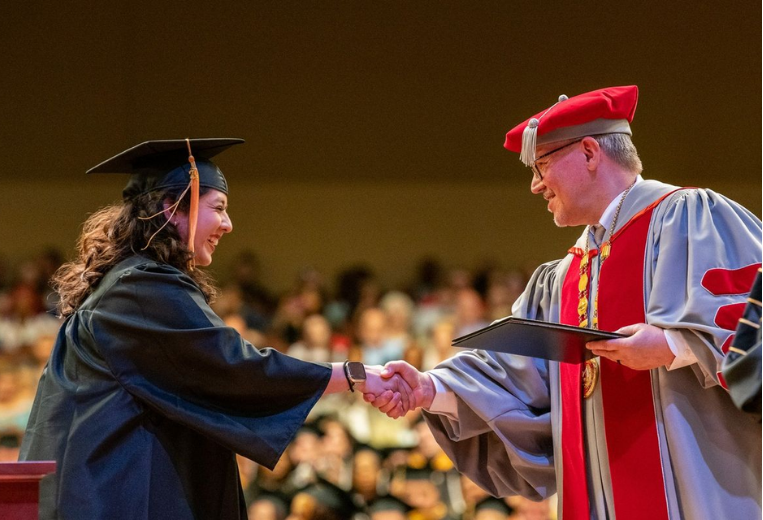
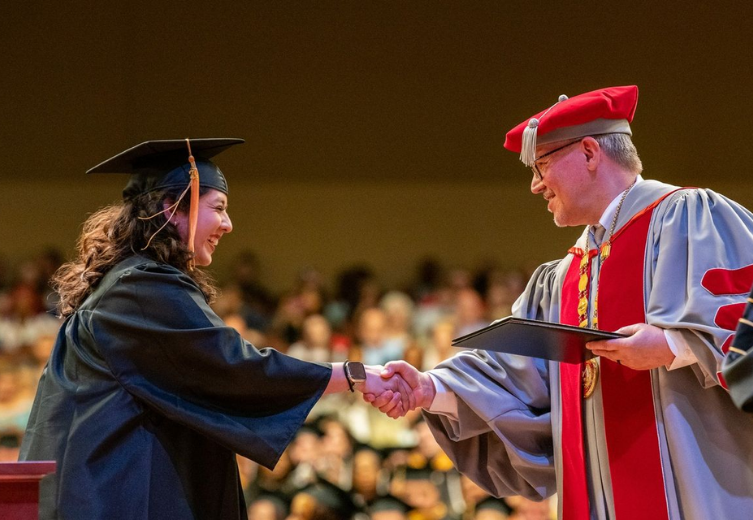
Build1

Changed region(s): [[0.0611, 0.1538, 1.0, 1.0], [0.1527, 0.2769, 0.1833, 0.3077], [0.1222, 0.3077, 0.1527, 0.3385]]

diff --git a/index.html b/index.html
@@ -19,6 +19,8 @@
     --cream-bg: #eef1e3;
     --about-bg: #EDF1E8;
     --courses-tan: #F0DEC2;
+    --stories-bg: #D7E6E5;
+    --stories-stroke: #9FB8B6;
     --card-overlay-opacity: 0.55;
     --ink: #231f20;
     --ink-soft: #4b4f40;
@@ -232,7 +234,7 @@
 
   .hero-content h1{
     font-family: var(--font-display);
-    font-weight:500;
+    font-weight:400;
     text-transform:uppercase;
     letter-spacing: .04em;
     line-height:1.08;
@@ -245,12 +247,20 @@
   }
 
   .hero-content p{
-    max-width: 520px;
-    margin: 14px auto 22px;
-    font-size: .92rem;
-    font-weight:500;
-    line-height:1.55;
-    color: rgba(255,255,255,.92);
+    max-width: 460px;
+    margin: 50px auto 34px;
+    font-size: .95rem;
+    font-weight:400;
+    line-height:1.65;
+    color: rgba(255,255,255,.9);
+
+    position: relative;
+    top: 0px;
+  }
+
+  #contactBtn{
+    transform: translateY(60px);
+    padding: 15px 34px;
   }
 
   /* ---------------------------------- ABOUT ---------------------------------- */
@@ -378,11 +388,13 @@
     padding: 90px clamp(24px, 6vw, 80px) 0;
   }
 
-  /* lower tan band that the card grid sits on top of/straddles */
+  /* tan band runs from the middle of the cards down to the middle of the photo below —
+     NOT all the way to the section bottom (bottom offset stops it there) */
   .courses-bg-split{
     position:absolute;
-    left:0; right:0; bottom:0;
-    height: 560px;
+    left:0; right:0;
+    bottom: 502px;
+    height: 632px;
     background: var(--courses-tan);
     z-index:0;
   }
@@ -437,6 +449,7 @@
     background: var(--white);
     border-radius: 2px;
     padding: 40px 30px 34px;
+    height: 340px;
     overflow:hidden;
     cursor:pointer;
     box-shadow: 0 4px 14px rgba(0,0,0,.06), 0 16px 36px rgba(0,0,0,.10);
@@ -511,6 +524,96 @@
     color: var(--white);
   }
 
+  /* white gap between Courses and Success Stories */
+  .section-divider-white{
+    background: var(--white);
+    height:20px;
+  }
+
+  /* ---------------------------------- SUCCESS STORIES ---------------------------------- */
+
+  .stories{
+    position:relative;
+    z-index:2;
+    display:grid;
+    grid-template-columns: 42% 58%;
+  }
+
+  .stories-intro{
+    background: var(--stories-bg);
+    padding: 90px clamp(24px, 5vw, 80px);
+  }
+
+  .stories-intro p{
+    margin-top: 20px;
+    max-width: 460px;
+    font-size: .98rem;
+    color: var(--ink-soft);
+    line-height: 1.8;
+  }
+
+  .stories-intro .btn-outline-dark{ margin-top: 34px; background: #ffffff; }
+
+  .stories-intro .btn-outline-dark:hover{
+  background: #231f20;
+  color: #ffffff;
+  border-color: #231f20;
+}
+
+  .stories-list-wrap{
+    background: var(--white);
+    padding: 90px clamp(24px, 5vw, 80px);
+    border: 15px solid var(--stories-bg);
+  }
+
+  .stories-list{
+    display:flex;
+    flex-direction:column;
+    max-width: 760px;
+  }
+
+  .story-item{
+    padding: 32px 0;
+    border-bottom: 1px solid rgba(0,0,0,.08);
+  }
+
+  .story-item:first-child{ padding-top:0; }
+  .story-item:last-child{ border-bottom:none; padding-bottom:0; }
+
+  .story-header{
+    display:flex;
+    align-items:center;
+    gap: 20px;
+    margin-bottom: 20px;
+  }
+
+  .story-photo{
+    width: 108px;
+    height: 108px;
+    border-radius: 4px;
+    object-fit: cover;
+    flex-shrink:0;
+  }
+
+  .story-meta h3{
+    font-family: var(--font-display);
+    font-weight:500;
+    font-size: 1.4rem;
+    color: var(--ink);
+    margin-bottom: 6px;
+  }
+
+  .story-role{
+    font-size: .85rem;
+    color: var(--ink-soft);
+  }
+
+  .story-quote{
+    font-size: .98rem;
+    color: var(--ink-soft);
+    line-height: 1.75;
+  }
+
   @media (max-width: 1024px){
     .courses-grid{ grid-template-columns: 1fr 1fr; }
   }
@@ -520,7 +623,10 @@
     .courses-header{ grid-template-columns:1fr; gap:24px; }
     .about-gallery{ grid-template-columns:1fr; }
     .main-nav{ display:none; } /* swap for a mobile menu button if needed */
-    .courses-bg-split{ height: 460px; }
+    .courses-bg-split{ bottom: 502px; height: 816px; }
+    .stories{ grid-template-columns: 1fr; }
+    .story-header{ align-items:flex-start; }
+    .story-photo{ width:80px; height:80px; }
   }
 
   @media (max-width: 768px){
@@ -530,7 +636,7 @@
 
   @media (max-width: 600px){
     .courses-grid{ grid-template-columns: 1fr; }
-    .courses-bg-split{ height: 380px; }
+    .courses-bg-split{ bottom: 260px; height: 942px; }
     .courses-photo{ aspect-ratio: 4 / 3.4; }
   }
 
@@ -656,6 +762,67 @@
   </div>
 </section>
 
+<div class="section-divider-white" aria-hidden="true"></div>
+
+<section class="stories" id="stories">
+  <div class="stories-intro">
+    <div class="section-heading">
+      <h2>Success Stories</h2>
+    </div>
+    <p>Real transformation begins with the right foundation. At Trinity Institute and Technology, we do more than just teach, we empower. Explore the inspiring journeys of our graduates who turned their ambition into reality, stepped confidently into competitive industries, and are now shaping the future of technology and professional innovation. Your success story starts here.</p>
+    <p>From lecturerooms to life career. Discover how our graduates turn education into success every single day.</p>
+    <button class="btn btn-outline-dark">Explore All Stories</button>
+  </div>
+
+  <div class="stories-list-wrap">
+    <div class="stories-list">
+      <article class="story-item">
+        <div class="story-header">
+          <img class="story-photo" src="images/s-stories-1.png" alt="Oscar Tully">
+          <div class="story-meta">
+            <h3>Oscar Tully</h3>
+            <p class="story-role">Founder / SnapDeals & Microsoft Partner</p>
+          </div>
+        </div>
+        <p class="story-quote">Trinity gave me the technical foundation and leadership skills to transform a simple classroom capstone project into a platform that now optimizes supply chains for over 50 regional businesses.</p>
+      </article>
+
+      <article class="story-item">
+        <div class="story-header">
+          <img class="story-photo" src="images/s-stories-2.png" alt="Alicent Melin">
+          <div class="story-meta">
+            <h3>Alicent Melin</h3>
+            <p class="story-role">Partner / Dèllma Technology</p>
+          </div>
+        </div>
+        <p class="story-quote">Balancing a full-time job with my data engineering degree at Trinity taught me exactly how to build tech for real-world impact.</p>
+      </article>
+
+      <article class="story-item">
+        <div class="story-header">
+          <img class="story-photo" src="images/s-stories-3.png" alt="Arjun Kapoor">
+          <div class="story-meta">
+            <h3>Arjun Kapoor</h3>
+            <p class="story-role">Actor / Angel Investor</p>
+          </div>
+        </div>
+        <p class="story-quote">Trinity taught me that engineering isn't just about building systems, it is about understanding human stories, a lesson that guides me every single day on set and helps me with life.</p>
+      </article>
+
+      <article class="story-item">
+        <div class="story-header">
+          <img class="story-photo" src="images/s-stories-4.png" alt="Damin Sevlor">
+          <div class="story-meta">
+            <h3>Damin Sevlor</h3>
+            <p class="story-role">Designer / Aliians Drafter</p>
+          </div>
+        </div>
+        <p class="story-quote">Millions of people trust engineers with their lives every single day without ever checking the math, our education at Trinity Institute gave us the skills to build structures that protect that unspoken public trust.</p>
+      </article>
+    </div>
+  </div>
+</section>
+
 <!-- Lightbox for the About gallery -->
 <div class="lightbox" id="lightbox" aria-hidden="true">
   <button class="lightbox-close" id="lightboxClose" aria-label="Close image">&times;</button>
@@ -721,7 +888,7 @@
     card.addEventListener('click', (e) => {
       if (e.target.closest('a')) return; // let the "Read More" link behave normally
       card.classList.toggle('is-open');
-    });add
+    });
   });
 </script>
 
